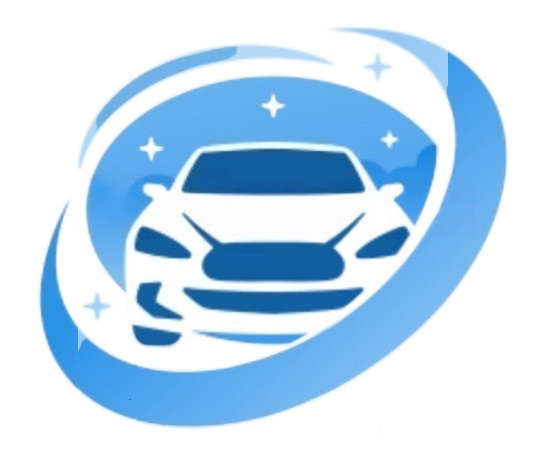
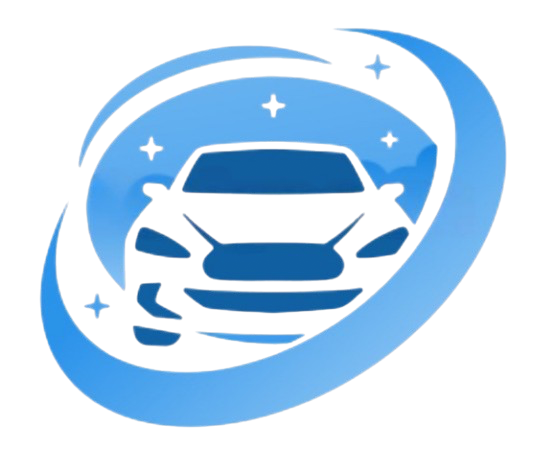
Fix header and footer

diff --git a/src/components/Hero.tsx b/src/components/Hero.tsx
@@ -19,34 +19,27 @@ export const Hero = () => {
       
       {/* Content */}
       <div className="relative z-10 container mx-auto px-4 py-12 md:py-20 text-center">
-        <div className="flex flex-col items-center gap-6 md:gap-8 animate-fade-in-up">
+        <div className="flex flex-col items-center gap-8 md:gap-12 animate-fade-in-up">
           <div className="relative">
             <img 
               src={heroIcon} 
-              alt="Car Detailing Icon" 
-              className="w-40 h-40 md:w-56 md:h-56 lg:w-64 lg:h-64 drop-shadow-2xl"
+              alt="Car Detailing" 
+              className="w-48 h-48 md:w-64 md:h-64 lg:w-80 lg:h-80 drop-shadow-[0_0_60px_rgba(0,149,255,0.5)]"
             />
           </div>
           
-          <div className="space-y-3 md:space-y-5">
-            <div className="flex items-center justify-center gap-3 md:gap-4 mb-4">
-              <img 
-                src={logo} 
-                alt="D.B.AUTOBUILD" 
-                className="w-12 h-12 md:w-16 md:h-16 lg:w-20 lg:h-20"
-              />
-              <h1 className="text-3xl md:text-5xl lg:text-6xl font-bold">
-                <span className="bg-gradient-primary bg-clip-text text-transparent">
-                  D.B.AUTOBUILD
-                </span>
-              </h1>
-            </div>
+          <div className="space-y-4 md:space-y-6">
+            <h1 className="text-4xl md:text-6xl lg:text-7xl font-bold">
+              <span className="bg-gradient-primary bg-clip-text text-transparent">
+                D.B.AUTOBUILD
+              </span>
+            </h1>
             
-            <h2 className="text-2xl md:text-4xl lg:text-5xl font-bold text-foreground">
+            <h2 className="text-2xl md:text-3xl lg:text-4xl font-semibold text-foreground/90">
               Prémiový Car Detailing
             </h2>
             
-            <p className="text-base md:text-xl lg:text-2xl text-muted-foreground max-w-2xl mx-auto px-4">
+            <p className="text-base md:text-lg lg:text-xl text-muted-foreground max-w-2xl mx-auto px-4">
               Profesionálna starostlivosť o váš automobil. Detailing a ochrana laku na najvyššej úrovni.
             </p>
           </div>

diff --git a/src/components/Footer.tsx b/src/components/Footer.tsx
@@ -1,16 +1,16 @@
-import logo from "@/assets/logo.jpeg";
+import heroIcon from "@/assets/hero-icon.png";
 
 export const Footer = () => {
   return (
-    <footer className="py-12 border-t border-border/50 relative">
+    <footer className="py-16 md:py-20 border-t border-border/50 relative">
       <div className="absolute inset-0 bg-gradient-to-t from-secondary/30 to-transparent" />
       
       <div className="container mx-auto px-4 relative z-10">
-        <div className="flex flex-col items-center">
+        <div className="flex flex-col items-center gap-6">
           <img 
-            src={logo} 
-            alt="D.B.AUTOBUILD" 
-            className="w-24 h-24 mb-6 opacity-80"
+            src={heroIcon} 
+            alt="D.B.AUTOBUILD Car Detailing" 
+            className="w-32 h-32 md:w-40 md:h-40 drop-shadow-[0_0_40px_rgba(0,149,255,0.3)]"
           />
           <h3 className="text-xl font-bold mb-2 bg-gradient-primary bg-clip-text text-transparent">
             D.B.AUTOBUILD MASTER S.R.O
